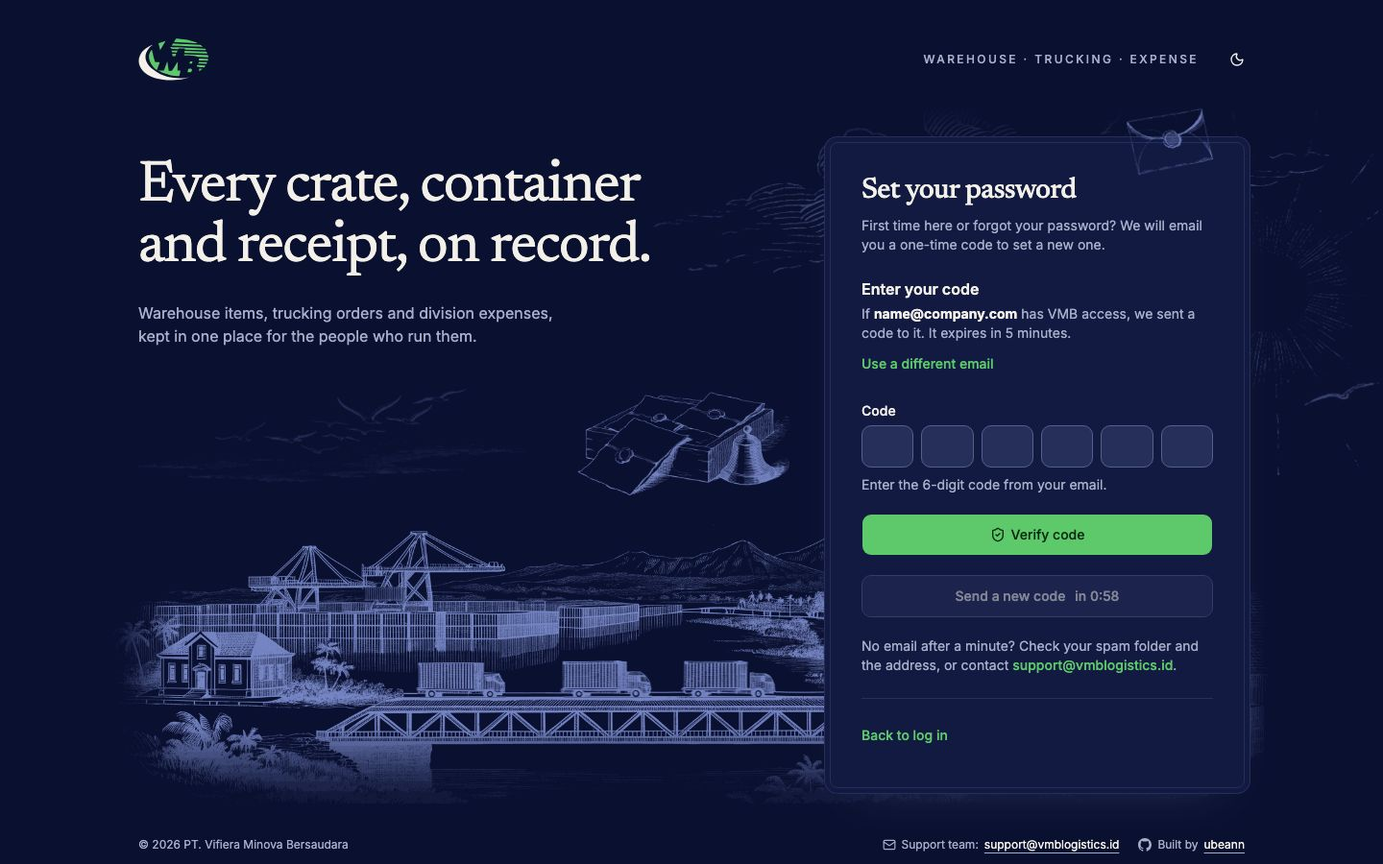
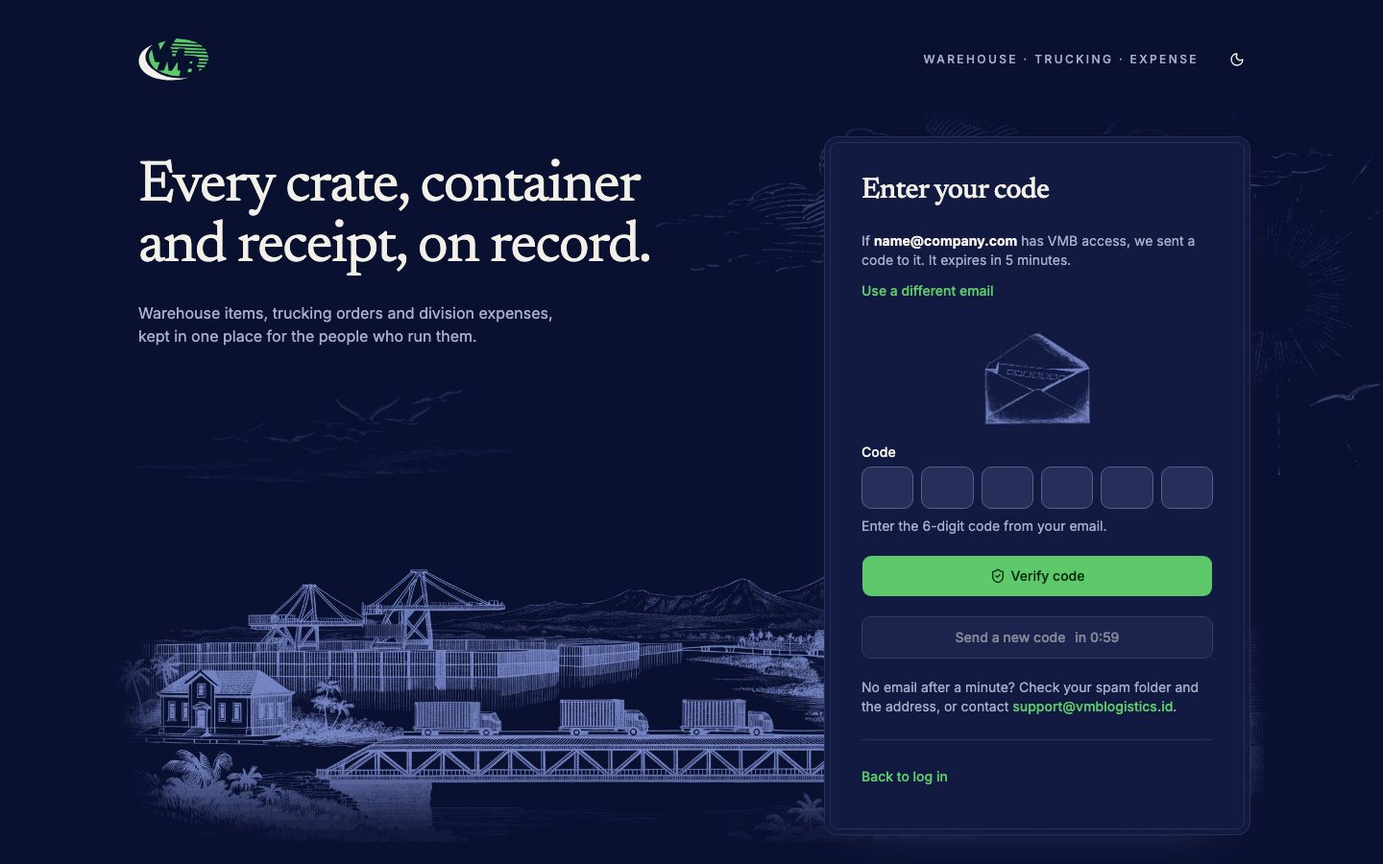
feat(web): put the etched slip above the code boxes and head the step by itself
- /activate code step: the page heading is "Enter your code", with the intro and the second heading left out
- EtchedMark: one centered band above the boxes in the form's flow, replacing the corner seal and the post vignette
- activate-art: the slip mask and its ratio; the seal and post masks are removed
- tests: the code step's heading, and the art on the code step only
- docs/design/activate-mark: the new direction, the rejected placements, Recraft credits and the height cost

Refs #273

diff --git a/apps/web/src/routes/(auth)/activate/+page.svelte b/apps/web/src/routes/(auth)/activate/+page.svelte
@@ -184,25 +184,19 @@
   description="First time on VMB or forgot your password? Get a one-time code by email and set a new one."
 />
 
-<AuthCard heading="Set your password">
-  {#snippet description()}
-    First time here or forgot your password? We will email you a one-time code to set a new one.
-  {/snippet}
+{#snippet intro()}
+  First time here or forgot your password? We will email you a one-time code to set a new one.
+{/snippet}
 
-  {#if step === "code"}
-    <!-- The code step's etched art (#273). Both are laid on the card's own box,
-         clear of every line of text, and only where the page has the room. -->
-    <EtchedMark
-      art={ACTIVATE_ART.seal}
-      class="absolute -top-[2.3rem] right-8 hidden w-[5.75rem] lg:block"
-    />
-    <EtchedMark
-      art={ACTIVATE_ART.post}
-      class="absolute top-64 right-full mr-10 hidden w-56 min-[80rem]:block"
-    />
+<!-- The code step is about one thing, so its heading is the step's own and the
+     page's intro, which explains the email step, steps aside (#273). -->
+<AuthCard
+  heading={step === "code" ? headings.code : "Set your password"}
+  description={step === "code" ? undefined : intro}
+>
+  {#if step !== "code"}
+    <h2 class="text-base font-semibold">{headings[step]}</h2>
   {/if}
-
-  <h2 class="text-base font-semibold">{headings[step]}</h2>
   <!-- The same words whether or not the email belongs to a user: a reply that
        differed would show which emails are registered (#232). -->
   <p class="text-muted-foreground mt-1 text-sm text-pretty">
@@ -290,6 +284,10 @@
         class="space-y-5"
       >
         <input type="hidden" name="email" value={email} />
+
+        <!-- Etched art (#273): its own band above the boxes, in the flow with a
+             fixed ratio, so nothing moves when the mask loads. -->
+        <EtchedMark art={ACTIVATE_ART.slip} class="mx-auto w-28" />
 
         <div class="space-y-2">
           <Label for="otp">Code</Label>

diff --git a/apps/web/src/routes/(auth)/activate/page.svelte.test.ts b/apps/web/src/routes/(auth)/activate/page.svelte.test.ts
@@ -122,14 +122,25 @@ describe("activate page", () => {
       expect(screen.getByLabelText("New password").elements()).toHaveLength(0);
     });
 
-    it("draws the etched seal and post as decorative art, and no other step does (#273)", async () => {
-      const marks = (root: Element) =>
-        [...root.querySelectorAll("[data-etched-mark]")] as HTMLElement[];
+    it("is headed by its own step, with the page's intro left out (#273)", async () => {
+      const screen = await render(Page, codeStep);
+
+      const headings = screen.getByRole("heading", { name: "Enter your code" });
+      expect(headings.elements()).toHaveLength(1);
+      expect(headings.element().tagName).toBe("H1");
+      expect(screen.getByRole("heading", { name: "Set your password" }).elements()).toHaveLength(0);
+      expect(screen.container.textContent).not.toContain("First time here or forgot");
+    });
+
+    it("draws the etched slip above the boxes as decorative art, and no other step does (#273)", async () => {
+      const marks = (root: Element) => [...root.querySelectorAll("[data-etched-mark]")];
 
       const code = await render(Page, codeStep);
-      const art = marks(code.container);
-      expect(art).toHaveLength(2);
-      for (const mark of art) expect(mark.getAttribute("aria-hidden")).toBe("true");
+      const [mark] = marks(code.container);
+      expect(marks(code.container)).toHaveLength(1);
+      expect(mark!.getAttribute("aria-hidden")).toBe("true");
+      const boxes = code.getByLabelText("Code").element();
+      expect(mark!.compareDocumentPosition(boxes) & Node.DOCUMENT_POSITION_FOLLOWING).toBeTruthy();
       code.unmount();
 
       for (const step of [emailStep, passwordStep]) {

diff --git a/apps/web/src/lib/activate-art.ts b/apps/web/src/lib/activate-art.ts
@@ -1,14 +1,10 @@
-import post from "./assets/activate/vmb-activate-post-640.webp";
-import seal from "./assets/activate/vmb-activate-seal-192.webp";
+import slip from "./assets/activate/vmb-activate-slip-256.webp";
 
 /**
- * The etched art on /activate's code step (#273): each an ink mask and its
- * width ÷ height. `activate-art.test.ts` fails when a ratio no longer matches
- * its file.
+ * The etched art on /activate's code step (#273): an ink mask and its width ÷
+ * height. `activate-art.test.ts` fails when a ratio no longer matches its file.
  */
 export const ACTIVATE_ART = {
-  /** A sealed envelope tucked into the card's top-right corner. */
-  seal: { image: seal, ratio: 1.254, file: "vmb-activate-seal-192.webp" },
-  /** Sealed letters on a crate beside a service bell, left of the card. */
-  post: { image: post, ratio: 1.937, file: "vmb-activate-post-640.webp" }
+  /** An open envelope with a slip half out, showing a row of empty boxes. */
+  slip: { image: slip, ratio: 1.129, file: "vmb-activate-slip-256.webp" }
 } as const;

diff --git a/docs/design/activate-mark/README.md b/docs/design/activate-mark/README.md
@@ -4,88 +4,96 @@ An etched mark for `/activate`'s code step (issue #273, a follow-up to #254 and 
 
 ## Brief
 
-- **Who sees it:** a migrated user, or anyone who forgot their password, who has just asked for a one-time code and is waiting on an email. The step is short and quiet; they need to find the six boxes.
-- **Brand idea:** the same engraved record as the login plate. The art says one thing, "a sealed message was sent to you", in VMB's own register: paper, wax and a service bell, like the crates, gates and trucks, not a generic icon. No mascots, no text in the art.
-- **Why art and not a Lucide icon:** #234 tried a heading icon and dropped it: a 1.75px stroke next to Newsreader reads as a stray glyph and repeats the field's own lock. Its README allowed a revisit "only with a bespoke etched-weight mark". This round is that revisit. #234 also keeps icons out of the six code boxes, so neither mark goes near them.
+- **Who sees it:** a migrated user, or anyone who forgot their password, who has just asked for a one-time code and is waiting on an email. The step is short; they need to find the six boxes.
+- **The problem:** the code step's card was all text: the page heading and intro, the step's own heading and sentence, a link, the boxes, a hint, two buttons, a help paragraph and a way back. Art was the owner's idea for relief, but the page's intro and a second heading were noise too.
+- **Brand idea:** the same engraved record as the login plate. The art says "a message with your code is on its way" in VMB's register: paper and ink, not a generic icon. No mascots, no text in the art.
+- **Why art and not a Lucide icon:** #234 tried a heading icon and dropped it: a 1.75px stroke next to Newsreader reads as a stray glyph and repeats the field's own lock. Its README allowed a revisit "only with a bespoke etched-weight mark". This round is that revisit. #234 also keeps icons out of the six code boxes, so the art sits above them, not in them.
 - **Palette and type:** unchanged. The art is an ink mask filled with `--etching`, so there is no new token and no ADR.
 
-## Directions
+## What ships
 
-The owner chose the motif (sealed envelope with a wax seal) and asked for both placements from the issue to be built and compared.
+On the code step only:
 
-| Direction                            | What it is                                                                                                                             | Why it might win                                                            | Why it might not                                                                                    |
-| ------------------------------------ | -------------------------------------------------------------------------------------------------------------------------------------- | --------------------------------------------------------------------------- | --------------------------------------------------------------------------------------------------- |
-| **A. Seal at the card's corner**     | A small tilted envelope with a wax seal, straddling the card's top-right corner, 5.75rem wide. At `lg` and wider.                      | It sits on the card, so it is the closest to the step. Reads like a stamp.  | It hides in the card's ring and the sky at its edge. It is small; there is no room for more inside. |
-| **B. Post vignette beside the card** | Sealed letters on a crate with a service bell, 14rem wide, in the gap left of the card, level with the code boxes. At 80rem and wider. | A real scene in the landscape's own language; the extra layer of the plate. | Far from the boxes, and absent below 80rem, so most laptops at 125% zoom won't see it.              |
+| Part         | Before                                                                                         | After                                                                  |
+| ------------ | ---------------------------------------------------------------------------------------------- | ---------------------------------------------------------------------- |
+| Page heading | "Set your password" (all three steps)                                                          | "Enter your code" (the code step's own); the other steps are as before |
+| Intro        | "First time here or forgot your password? We will email you a one-time code to set a new one." | Left out: it explains the email step                                   |
+| Step heading | "Enter your code" as an `h2` under the page heading                                            | Gone: the page heading says it                                         |
+| Art          | none                                                                                           | An etched open envelope with a slip half out, centered above "Code"    |
 
-An in-card mark beside or above "Enter your code" was ruled out on measurement: the line beside the h1 has about 100px of room after the 2.5rem clear zone, and the description sits right under it, so only a mark that straddles the card's top edge keeps the zone (A).
+`ACTIVATE_ART.slip` (`apps/web/src/lib/activate-art.ts`) is drawn by `EtchedMark` (`$lib/components/EtchedMark.svelte`): an ink mask filled with `--etching`, 7rem wide, `aria-hidden`, static. It sits in the code form's flow with the card's own `space-y-5` (1.25rem) above and below. Its box takes the mask's ratio, so the height is known before the mask loads and nothing moves. It shows at every width, 390px included.
 
-## Both ship as candidates
+The email and password steps are unchanged and draw no art.
 
-Both are built on the real route and shown on the code step only, so the owner can compare them in their own browser and keep one, both or neither. Removing a direction is deleting one `<EtchedMark>` in `+page.svelte`.
+## How the direction was reached
 
-| Place    | Where                                     | Size             | Shown          | Clear zone (measured)                                       |
-| -------- | ----------------------------------------- | ---------------- | -------------- | ----------------------------------------------------------- |
-| Seal (A) | `-top-[2.3rem] right-8` of the card's box | 5.75rem × 4.6rem | ≥ 64rem (`lg`) | 41px to the nearest text, header included (≥ 2.5rem = 40px) |
-| Post (B) | `top-64`, 2.5rem left of the card         | 14rem × 7.2rem   | ≥ 80rem        | 72px to text, 73px to a control                             |
+1. **Corner seal and post vignette (rejected).** The owner chose the motif (a sealed envelope) and asked for the issue's two placements to be built. Both were built on the real route: a tilted envelope with a wax seal straddling the card's top-right corner (≥ 64rem), and sealed letters on a crate beside a service bell, left of the card (≥ 80rem). Measured, both kept 2.5rem clear of text and left the card's height alone. But they only added decoration: the card was still all text, the seal poked out like a sticker, the vignette floated in the sky with nothing under it, and neither showed below 64rem. Their art is in `sources/` (`seal-*`, `vignette-*`); the masks are not shipped.
+2. **A centered band above the boxes (kept).** The owner's own reference (an OTP card with an illustration centered above the title and boxes) put it where it breaks the text. With the intro and the second heading gone, it costs less than it adds.
 
-Both are `aria-hidden`, absolutely placed, so they never change the card's height, and they are not drawn on the email or password step. Below `lg` (390px included) neither shows: the h1 leaves no room beside it, and a mark above the card would collide with the headline. Neither moves. The plates draw in once, but these two mount on every entry to the code step, and the first code box takes focus at that moment: design-workflow.md's rule is that nothing moves near a focused field, so they appear with the step, which the sheet's own view transition already cross-fades. (The first build drew them in like the plates; the code review caught the conflict.)
+An in-card mark beside the heading was ruled out on measurement: the strip beside the h1 had about 100px of room after the 2.5rem clear zone, and the description sat right under it.
 
-## Recraft round (4 Oct, 8 credits)
+## The clear-zone rule
 
-`recraftv4_1`, two images per prompt, 2 credits each: 946 → 938. No crisp upscale: the seal is shown at 96 CSS px and the vignette at 224, so the 1024px and 1216px sources are enough. The shared frame is the error round's, with the scene sentence swapped.
+`design-workflow.md` asks for 2.5rem around every line of text, "place art around the text rather than under it". That rule is about overlap: art over text, or hatching through letters. This art is in its own band, overlapping nothing, with the card's usual 1.25rem above and below, because 2.5rem on both sides would add 80px more to a card that already grew. This is an exception to the rule as written; the owner chose the placement. Say so in `design-workflow.md` if it is repeated.
 
-| Art      | Size | Pick  | Why                                                                                                                                                                |
-| -------- | ---- | ----- | ------------------------------------------------------------------------------------------------------------------------------------------------------------------ |
-| Seal     | 1:1  | **2** | Clean outline, a little hatching on the flap and a legible seal. 1 shades the edges with scribbled hatching that turns to noise at 96px.                           |
-| Vignette | 4:3  | **2** | Three sealed letters leaning on an open crate, the bell beside it, open paper all around. 1 is cleaner, but the bell dominates and the letters are small at 14rem. |
+## Recraft rounds (4 Oct, 12 credits)
 
-Prompts:
+`recraftv4_1`, two images per prompt, 2 credits each: 946 → 934. No crisp upscale: the mark shows at 112 CSS px, and the preview is enough. The shared frame is the error round's, with the scene sentence swapped.
 
-> Seal: Delicate 19th-century steel engraving of a single small sealed envelope with a round wax seal on its flap, seen straight on, slightly tilted, fine cross-hatching shading on the flap and seal, thin black ink lines on plain white paper, monochrome. The envelope sits alone in the middle of the image as a free-standing emblem whose edges dissolve into blank white paper on every side; nothing touches the edges. Light, airy, sparse line work with open white areas, calm, museum-quality engraving. No text, lettering, numbers, logos, signatures, borders, frames, people or dense dark areas.
+| Art             | Credits | Pick  | Why                                                                                                                                                                                                                              |
+| --------------- | ------- | ----- | -------------------------------------------------------------------------------------------------------------------------------------------------------------------------------------------------------------------------------- |
+| Seal (rejected) | 4       | **2** | Clean outline, a little hatching and a legible seal. 1 shades the edges with scribbled hatching.                                                                                                                                 |
+| Post (rejected) | 4       | **2** | Letters on an open crate with a bell, open paper around it. 1 is cleaner but the bell dominates.                                                                                                                                 |
+| Slip (kept)     | 4       | **2** | A symmetrical open envelope with the slip showing, so it centers well. 1 reads as a sleeve with five boxes, off-centre. Pick 2's slip shows seven boxes, not six, which is subtle but may be noticed against the six real boxes. |
 
-> Vignette: the error round's frame with the scene: _A few sealed letters with wax seals resting on a wooden crate beside a small brass post-office bell, one letter leaning against the crate, seen from slightly above._
+> Slip: Delicate 19th-century steel engraving of a single envelope lying flat with its flap open, and a small slip of paper drawn halfway out of it; on the slip a row of six small empty square boxes drawn in thin ink lines. Fine cross-hatching shading, thin black ink lines on plain white paper, monochrome. The envelope sits in the middle of the image as a free-standing vignette whose edges dissolve into blank white paper on every side; nothing touches the edges. Light, airy, sparse line work with open white areas, calm, museum-quality engraving. No text, lettering, digits, numbers, logos, signatures, borders, frames, people or dense dark areas.
 
-Both picks and the two they were chosen over are in `sources/` (`seal-*`, `vignette-*`; the first vignette is only the 608px preview).
+The slip's source is the 608px preview (`sources/slip-2-608.jpg`); the full-size URL did not download from this network. Its ink is 332px wide after trimming, enough for the 256px mask. The seal and vignette prompts are in the history of PR #275's first commit.
 
 ## Asset pipeline
 
 ```sh
-python3 docs/design/etched-login/prepare-etching.py docs/design/activate-mark/sources/seal-2-1024.jpg apps/web/src/lib/assets/activate \
-  --name vmb-activate-seal --trim --trim-x --widths 192 --white 235 --black 150
-python3 docs/design/etched-login/prepare-etching.py docs/design/activate-mark/sources/vignette-2-1216.jpg apps/web/src/lib/assets/activate \
-  --name vmb-activate-post --trim --trim-x --widths 640
+python3 docs/design/etched-login/prepare-etching.py docs/design/activate-mark/sources/slip-2-608.jpg apps/web/src/lib/assets/activate \
+  --name vmb-activate-slip --trim --trim-x --widths 256 --white 235 --black 150
 ```
 
-| Mask                    | Size                              | Ratio | Weight   |
-| ----------------------- | --------------------------------- | ----- | -------- |
-| `vmb-activate-seal-192` | 671 × 535 ink, written 192px wide | 1.254 | 2.8 KiB  |
-| `vmb-activate-post-640` | 800 × 413 ink, written 640px wide | 1.937 | 24.7 KiB |
+| Mask                    | Ink size  | Ratio | Weight  |
+| ----------------------- | --------- | ----- | ------- |
+| `vmb-activate-slip-256` | 332 × 294 | 1.129 | 7.8 KiB |
 
-The seal's hairline outline vanished at the default thresholds when 671px of ink is scaled to 96px, so it takes `--white 235 --black 150` to thicken it, and a 192px mask (2× its CSS size) instead of 160. The vignette's engraving is heavier and needs no change. `activate-art.test.ts` fails when a ratio in `ACTIVATE_ART` no longer matches its file.
+Hairline engraving vanishes at the default thresholds when scaled down, so it takes `--white 235 --black 150` to thicken it. `activate-art.test.ts` fails when the ratio in `ACTIVATE_ART` no longer matches its file.
 
 ## Verification
 
-Chromium, dev build, the code step (reached with the `vmb_activate_sent` cookie the real action sets), all six review viewports, light and dark. Playwright's `fullPage` capture resizes the viewport on a page that scrolls (1366 × 768 and 390 × 844), and the art, the sky included, then comes out missing; use a viewport capture there. Two captures are kept in `captures/`.
+Chromium, dev build, the code step (reached with the `vmb_activate_sent` cookie the real action sets), the six review viewports, light and dark. Captures kept in `captures/`: 1440 × 900 light and dark, and 390 × 844 light.
 
-- **Clear zone:** distance from each mark to the nearest text line in `main` and to the nearest input or button, measured with `getClientRects` on every text node. Re-measured after review over every text node on the page, header included: seal 41.4px, post 72.2px (and 73px to a control), at 1920, 1680, 1440, 1366, 1300 and 1280 (the narrowest width the post shows at). The seal is 5.75rem because the window between the header's tagline and the description is 157px, which a 6rem seal could not keep 2.5rem clear of on both sides (39px to the header). Nothing is under a mark.
-- **Layout shift:** with and without the art (`display: none`) the card is the same height at every viewport (673px, 697px at 390 × 844) and so is the page (1080, 1000, 900, 897, 923, 1104px). The password-manager probe from step 6 (a zero-height in-flow element and a 24px absolutely placed badge after each input) left every mark, the card height and every input at the same rectangles at all eight widths.
-- **Contrast:** not measured: the art carries no text and no text sits over it (every text line is at least 2.5rem clear, above), so the text pairs are the ones in [auth field icons](../auth-field-icons/README.md). The ink is `--etching` in both schemes.
-- **Overlaps with the plate:** at 1440 × 900 the post's box ends about 33px above the crane tips and starts about 40px right of the flock, read off the capture, not measured. Both are art, not text, so the 2.5rem rule does not apply.
-- **Where it shows:** 1920, 1680, 1440 and 1366: both. 1024: the seal only. 390: neither.
+| Viewport    | Card height | Page height, before → after |
+| ----------- | ----------- | --------------------------- |
+| 1920 × 1080 | 673 → 716   | 1080 → 1080                 |
+| 1680 × 1000 | 673 → 716   | 1000 → 1000                 |
+| 1440 × 900  | 673 → 716   | 900 → **940**               |
+| 1366 × 768  | 673 → 716   | 897 → **940**               |
+| 1024 × 923  | 673 → 716   | 923 → **940**               |
+| 390 × 844   | 697 → 720   | 1104 → 1127                 |
+
+- **The cost:** the card grew 43px net (the art and its two gaps, 139px, less the intro and second heading). Pages that fitted at 1440 × 900 and 1024 × 923 now scroll by 40px and 17px. 1366 × 768 and 390 × 844 scrolled before.
+- **The knob:** at 112px the art is small beside the 365px row of boxes. A bigger mark costs about 0.9px of page height per px of width (the ratio is 1.129).
+- **Gaps:** 20px above and below the art at every viewport, measured against the "Use a different email" link and the "Code" label.
+- **Contrast:** the art carries no text and no text sits over it, so the text pairs are the ones in [auth field icons](../auth-field-icons/README.md). The ink is `--etching` in both schemes.
+- **Not run:** Firefox and WebKit; the password-manager probe on this layout (the art is in flow and the fields are unchanged); the view-transition morph between steps in a real browser. The first round's `fullPage` captures lose the shell's art on a scrolling page (the sky, flock), so view the 1366 and 390 captures with a viewport capture.
 
 ## Deviations from the workflow
 
-- **No separate stand-in.** Step 3 asks for stand-in art on the real route first. The owner had approved Recraft and its credits, and 8 credits were cheaper than a throwaway Pen round, so the first generated art went straight onto the route. Both placements were then judged on the real page.
-- **Chromium only.** Firefox and WebKit were not rendered (`--browser firefox|webkit` in `design-screenshots.mjs`).
-- **The seal is a hybrid.** The issue's in-card spot (beside or above the heading) fails the clear zone, so the seal straddles the card's top edge. It sits in the card's DOM and so inside the `auth-card` view-transition element; whether its overhang survives the email-to-code morph in a real browser was not checked.
-- **Two directions, not three.** The owner asked for the issue's two placements, so there are two.
+- **No separate stand-in.** Step 3 asks for stand-in art first. The owner had approved Recraft and its credits, and the cost was lower than a throwaway round, so generated art went straight onto the real route.
+- **Two directions, then one.** The owner asked for the issue's two placements; they were built, compared and replaced by the owner's own layout.
+- **Chromium only.**
 
 ## Owner review
 
 To do, in the owner's own browser at native size, with their extensions installed:
 
-- [ ] Which direction to keep: the seal (A), the post vignette (B), both, or neither. If neither is kept, this README records why, as #234 did for the heading icon.
-- [ ] The seal over the card's border ring: a hairline of the ring shows through the envelope. If that reads as a flaw, the seal gets a paper backing.
-- [ ] 1Password / Bitwarden badges: no overlap with the boxes, no shift. Neither mark is near a field.
-- [ ] Light and dark, at the screen's own size: the post vignette clear of the flock and the plate.
+- [ ] Does the card now read as less of a wall of text? Light and dark.
+- [ ] Is the 112px art big enough, or should it grow?
+- [ ] The slip shows seven boxes against the six real ones. Fine, or worth another generation (4 credits)?
+- [ ] The page now scrolls 40px at 1440 × 900. Acceptable, or should the card give some height back?
+- [ ] 1Password / Bitwarden badges: no overlap with the boxes, no shift.
